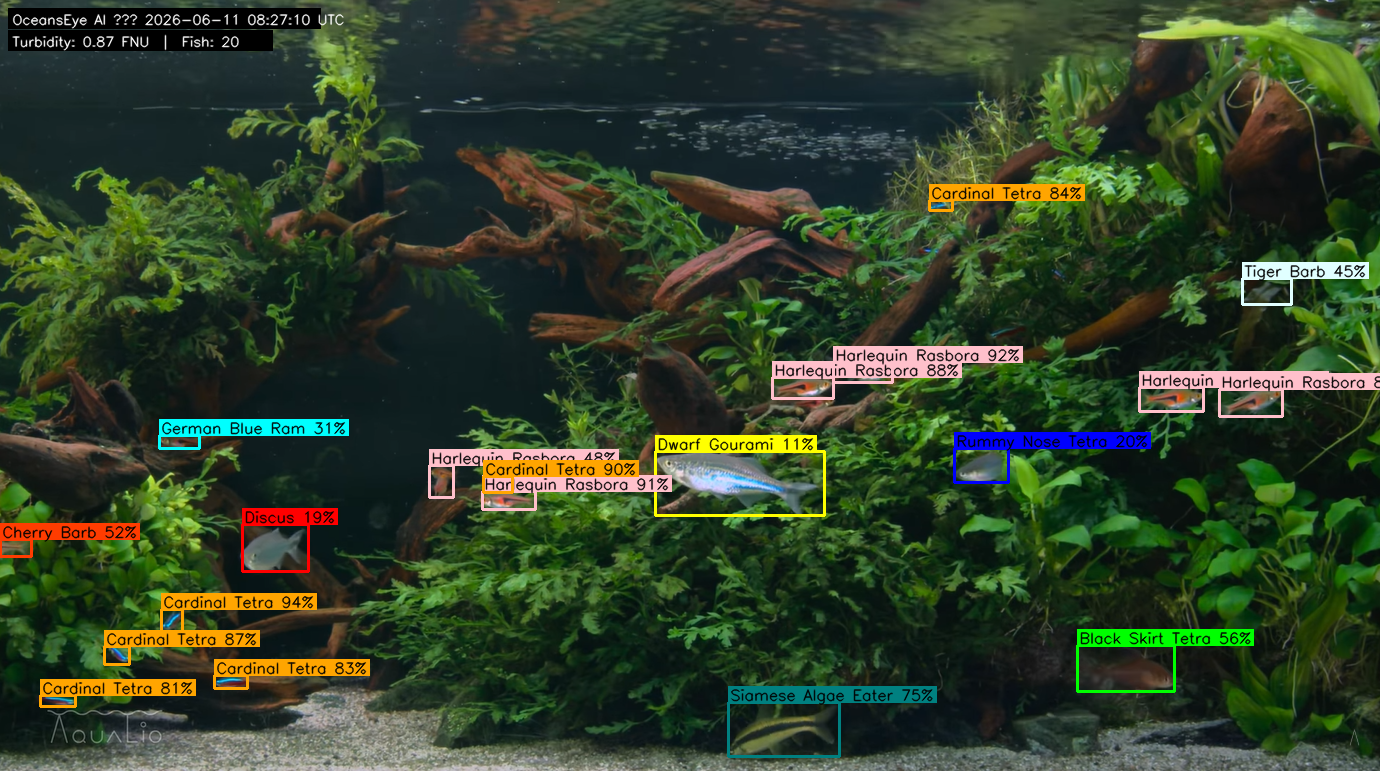
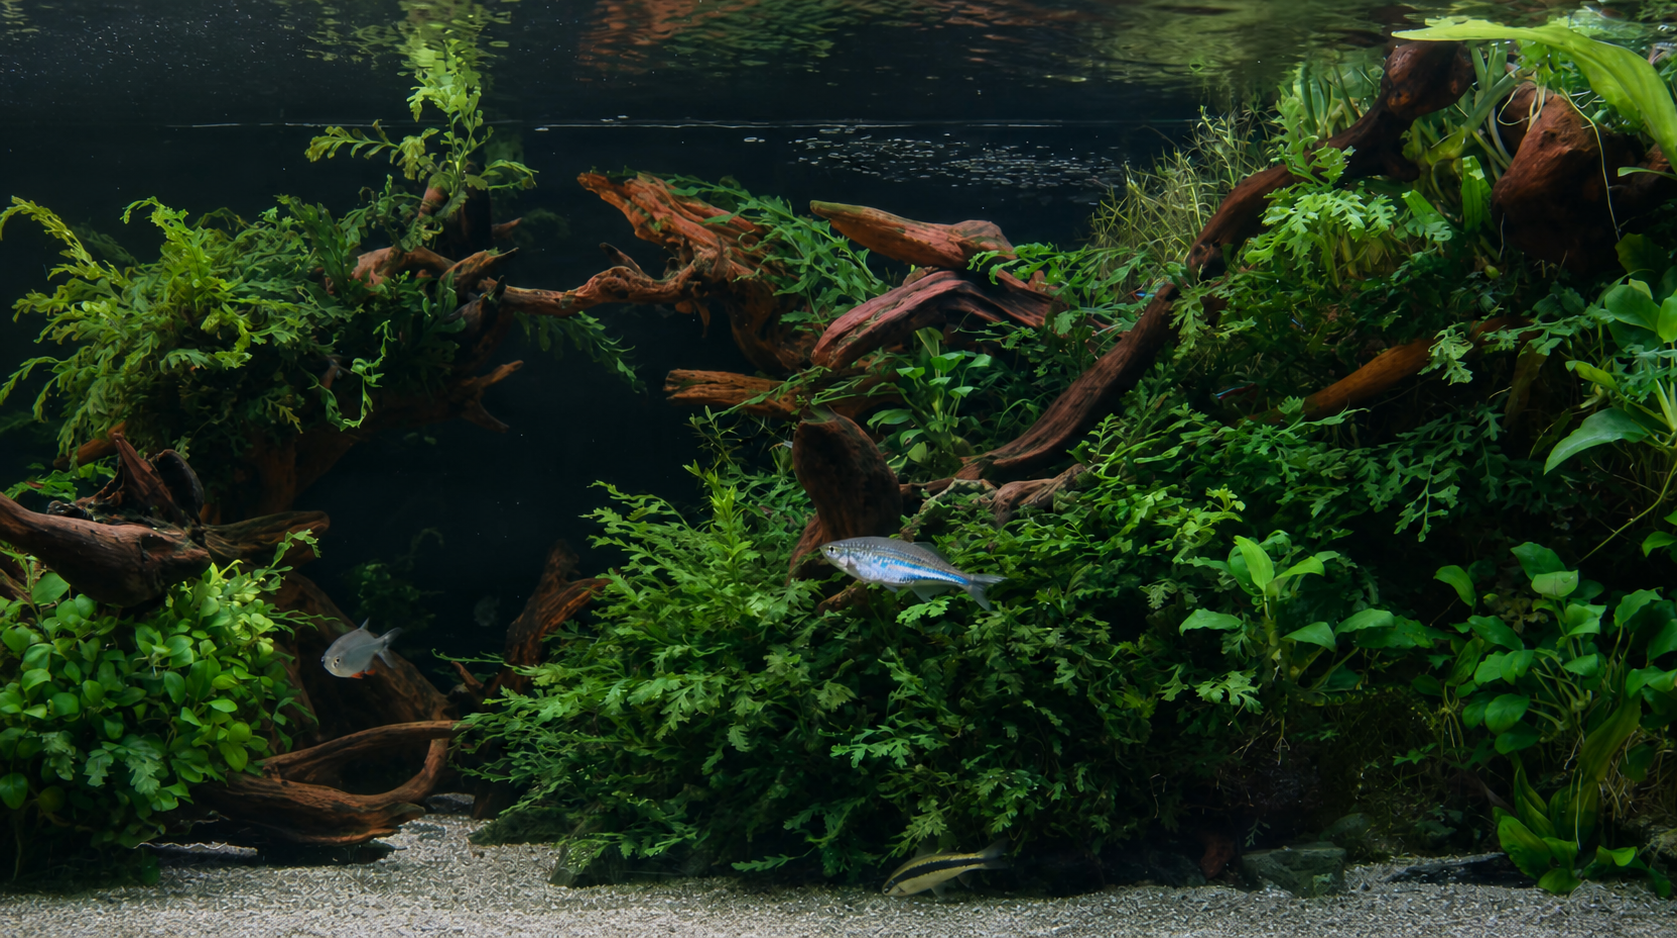
Improve analytics range editing and detection box styling

diff --git a/lib/ui/screens/analytics_screen.dart b/lib/ui/screens/analytics_screen.dart
@@ -115,19 +115,18 @@ Future<void> _showAnalyticsRangeEditor(
   BuildContext context,
   OceanEyesController controller,
 ) async {
-  final result = await _showAnalyticsOverlay<_RangeSelection>(
+  await _showAnalyticsOverlay<void>(
     context: context,
     child: _DateRangeEditorDialog(
       range: controller.analyticsRange,
       startTime: controller.analyticsStartTime,
       endTime: controller.analyticsEndTime,
+      onChanged: (selection) => controller.setAnalyticsRange(
+        selection.range,
+        start: selection.startTime,
+        end: selection.endTime,
+      ),
     ),
-  );
-  if (result == null) return;
-  controller.setAnalyticsRange(
-    result.range,
-    start: result.startTime,
-    end: result.endTime,
   );
 }
 
@@ -148,18 +147,15 @@ Future<T?> _showAnalyticsOverlay<T>({
       final resolvedTop = math
           .min(anchoredTop, math.max(16, size.height - 96))
           .toDouble();
-      return Material(
-        color: Colors.transparent,
-        child: Padding(
-          padding: EdgeInsets.fromLTRB(16, resolvedTop, 16, 16),
-          child: Align(
-            alignment: Alignment.topCenter,
-            child: SizedBox(
-              width: math.min(
-                OceanGeometry.referenceWidth - 32,
-                size.width - 32,
-              ),
-              child: Align(alignment: alignment, child: child),
+      return Padding(
+        padding: EdgeInsets.fromLTRB(16, resolvedTop, 16, 16),
+        child: Align(
+          alignment: Alignment.topCenter,
+          child: SizedBox(
+            width: math.min(OceanGeometry.referenceWidth - 32, size.width - 32),
+            child: Align(
+              alignment: alignment,
+              child: Material(color: Colors.transparent, child: child),
             ),
           ),
         ),
@@ -883,11 +879,13 @@ class _DateRangeEditorDialog extends StatefulWidget {
     required this.range,
     required this.startTime,
     required this.endTime,
+    required this.onChanged,
   });
 
   final DateTimeRange range;
   final TimeOfDay startTime;
   final TimeOfDay endTime;
+  final ValueChanged<_RangeSelection> onChanged;
 
   @override
   State<_DateRangeEditorDialog> createState() => _DateRangeEditorDialogState();
@@ -984,27 +982,6 @@ class _DateRangeEditorDialogState extends State<_DateRangeEditorDialog> {
                 ),
               ),
             ],
-            const SizedBox(height: OceanSpacing.sm),
-            Row(
-              children: [
-                Expanded(
-                  child: GlassButton(
-                    label: 'Cancel',
-                    style: GlassButtonStyle.outline,
-                    expanded: true,
-                    onPressed: () => Navigator.of(context).pop(),
-                  ),
-                ),
-                const SizedBox(width: OceanSpacing.xs),
-                Expanded(
-                  child: GlassButton(
-                    label: 'Apply',
-                    expanded: true,
-                    onPressed: _apply,
-                  ),
-                ),
-              ],
-            ),
           ],
         ),
       ),
@@ -1016,56 +993,42 @@ class _DateRangeEditorDialogState extends State<_DateRangeEditorDialog> {
       _RangeField.startDate => _OceanCalendar(
         key: const ValueKey('start-calendar'),
         selectedDate: _startDate,
-        onSelected: (date) {
-          setState(() {
-            _startDate = DateUtils.dateOnly(date);
-            _validationError = _rangeValidationMessage();
-          });
-        },
+        onSelected: (date) =>
+            _updateDraft(() => _startDate = DateUtils.dateOnly(date)),
       ),
       _RangeField.endDate => _OceanCalendar(
         key: const ValueKey('end-calendar'),
         selectedDate: _endDate,
-        onSelected: (date) {
-          setState(() {
-            _endDate = DateUtils.dateOnly(date);
-            _validationError = _rangeValidationMessage();
-          });
-        },
+        onSelected: (date) =>
+            _updateDraft(() => _endDate = DateUtils.dateOnly(date)),
       ),
       _RangeField.startTime => _OceanTimeWheel(
         key: const ValueKey('start-time-wheel'),
         initialTime: _startTime,
         semanticLabel: 'Start time',
-        onChanged: (time) => setState(() {
-          _startTime = time;
-          _validationError = _rangeValidationMessage();
-        }),
+        onChanged: (time) => _updateDraft(() => _startTime = time),
         onDone: () => setState(() => _activeField = null),
       ),
       _RangeField.endTime => _OceanTimeWheel(
         key: const ValueKey('end-time-wheel'),
         initialTime: _endTime,
         semanticLabel: 'End time',
-        onChanged: (time) => setState(() {
-          _endTime = time;
-          _validationError = _rangeValidationMessage();
-        }),
+        onChanged: (time) => _updateDraft(() => _endTime = time),
         onDone: () => setState(() => _activeField = null),
       ),
       null => const SizedBox.shrink(),
     };
   }
 
-  void _apply() {
-    final validationError = _rangeValidationMessage();
-    if (validationError != null) {
-      setState(() => _validationError = validationError);
-      return;
-    }
+  void _updateDraft(VoidCallback update) {
+    setState(() {
+      update();
+      _validationError = _rangeValidationMessage();
+    });
+    if (_validationError != null) return;
     final start = _combine(_startDate, _startTime);
     final end = _combine(_endDate, _endTime);
-    Navigator.of(context).pop(
+    widget.onChanged(
       _RangeSelection(
         range: DateTimeRange(start: start, end: end),
         startTime: _startTime,

diff --git a/test/widget_test.dart b/test/widget_test.dart
@@ -179,6 +179,8 @@ void main() {
     await tester.tap(find.byKey(const ValueKey('analytics-date-filter')));
     await tester.pumpAndSettle();
     expect(find.text('Date & time range'), findsOneWidget);
+    expect(find.text('Cancel'), findsNothing);
+    expect(find.text('Apply'), findsNothing);
     expect(controller.activeTab, PrimaryTab.analytics);
     expect(tester.takeException(), isNull);
   });
@@ -207,7 +209,10 @@ void main() {
       expect(find.text('End must be after start.'), findsOneWidget);
       expect(controller.analyticsRange.start, originalStart);
 
-      await tester.tap(find.text('Cancel'));
+      final editorRect = tester.getRect(
+        find.byKey(const ValueKey('analytics-range-editor')),
+      );
+      await tester.tapAt(Offset(editorRect.left - 4, editorRect.center.dy));
       await tester.pumpAndSettle();
       expect(
         find.byKey(const ValueKey('analytics-range-editor')),
@@ -217,6 +222,84 @@ void main() {
       expect(tester.takeException(), isNull);
     },
   );
+
+  testWidgets('range changes apply live and outside tap closes the editor', (
+    tester,
+  ) async {
+    final controller = await pumpReferenceApp(tester);
+    controller.selectTab(PrimaryTab.analytics);
+    await tester.pump(const Duration(milliseconds: 600));
+
+    await tester.tap(find.byKey(const ValueKey('analytics-date-filter')));
+    await tester.pumpAndSettle();
+    final originalRange = controller.analyticsRange;
+
+    await tester.tap(find.bySemanticsLabel('Ends date'));
+    await tester.pumpAndSettle();
+    expect(find.byKey(const ValueKey('end-calendar')), findsOneWidget);
+
+    await tester.tap(find.bySemanticsLabel('Saturday, 1 August 2026'));
+    await tester.pumpAndSettle();
+    expect(
+      find.byKey(const ValueKey('analytics-range-editor')),
+      findsOneWidget,
+    );
+    expect(controller.analyticsRange.start, originalRange.start);
+    expect(controller.analyticsRange.end, DateTime(2026, 8, 1, 23, 59));
+
+    await tester.tap(find.bySemanticsLabel('Starts time'));
+    await tester.pumpAndSettle();
+    expect(find.byKey(const ValueKey('ocean-time-wheel')), findsOneWidget);
+
+    await tester.tap(find.bySemanticsLabel('Minute 01'));
+    await tester.pumpAndSettle();
+    expect(controller.analyticsRange.start, DateTime(2026, 7, 31, 0, 1));
+    expect(controller.analyticsStartTime, const TimeOfDay(hour: 0, minute: 1));
+
+    final editorRect = tester.getRect(
+      find.byKey(const ValueKey('analytics-range-editor')),
+    );
+    final outsidePoint = Offset(
+      editorRect.left > 8 ? editorRect.left - 4 : editorRect.right + 4,
+      editorRect.center.dy,
+    );
+    await tester.tapAt(outsidePoint);
+    await tester.pumpAndSettle();
+
+    expect(find.byKey(const ValueKey('analytics-range-editor')), findsNothing);
+    expect(controller.analyticsRange.start, DateTime(2026, 7, 31, 0, 1));
+    expect(controller.analyticsRange.end, DateTime(2026, 8, 1, 23, 59));
+    expect(tester.takeException(), isNull);
+  });
+
+  testWidgets('range editor closes from Back in nested controls', (
+    tester,
+  ) async {
+    final controller = await pumpReferenceApp(tester);
+    controller.selectTab(PrimaryTab.analytics);
+    await tester.pump(const Duration(milliseconds: 600));
+
+    await tester.tap(find.byKey(const ValueKey('analytics-date-filter')));
+    await tester.pumpAndSettle();
+    await tester.tap(find.bySemanticsLabel('Starts date'));
+    await tester.pumpAndSettle();
+    expect(find.byKey(const ValueKey('start-calendar')), findsOneWidget);
+
+    await tester.binding.handlePopRoute();
+    await tester.pumpAndSettle();
+    expect(find.byKey(const ValueKey('analytics-range-editor')), findsNothing);
+
+    await tester.tap(find.byKey(const ValueKey('analytics-date-filter')));
+    await tester.pumpAndSettle();
+    await tester.tap(find.bySemanticsLabel('Starts time'));
+    await tester.pumpAndSettle();
+    expect(find.byKey(const ValueKey('ocean-time-wheel')), findsOneWidget);
+
+    await tester.binding.handlePopRoute();
+    await tester.pumpAndSettle();
+    expect(find.byKey(const ValueKey('analytics-range-editor')), findsNothing);
+    expect(tester.takeException(), isNull);
+  });
 
   testWidgets('fullscreen back closes drawer before the camera overlay', (
     tester,

diff --git a/lib/ui/widgets/aquarium_hero.dart b/lib/ui/widgets/aquarium_hero.dart
@@ -946,6 +946,7 @@ class _DetectionBoxes extends StatelessWidget {
           top: 0.33,
           width: 0.15,
           height: 0.18,
+          speciesId: 'cardinal_tetra',
           label: 'Cardinal Tetra 94%',
         ),
         _DetectionBox(
@@ -953,6 +954,7 @@ class _DetectionBoxes extends StatelessWidget {
           top: 0.44,
           width: 0.18,
           height: 0.20,
+          speciesId: 'guppy',
           label: 'Guppy 89%',
         ),
         _DetectionBox(
@@ -960,6 +962,7 @@ class _DetectionBoxes extends StatelessWidget {
           top: 0.25,
           width: 0.13,
           height: 0.17,
+          speciesId: 'corydoras',
           label: 'Corydoras 82%',
         ),
       ],
@@ -973,6 +976,7 @@ class _DetectionBox extends StatelessWidget {
     required this.top,
     required this.width,
     required this.height,
+    required this.speciesId,
     required this.label,
   });
 
@@ -980,6 +984,7 @@ class _DetectionBox extends StatelessWidget {
   final double top;
   final double width;
   final double height;
+  final String speciesId;
   final String label;
 
   @override
@@ -988,44 +993,47 @@ class _DetectionBox extends StatelessWidget {
       MediaQuery.sizeOf(context).width,
       OceanGeometry.referenceWidth,
     );
+    final boxWidth = referenceWidth * width;
+    final fontSize = (boxWidth * 0.12).clamp(10.0, 22.0).toDouble();
+    final boxColor = SpeciesDonut.colorForSpeciesId(speciesId);
+
     return Positioned(
       left: referenceWidth * left,
       top: OceanGeometry.heroHeight * top,
-      width: referenceWidth * width,
+      width: boxWidth,
       height: OceanGeometry.heroHeight * height,
       child: DecoratedBox(
         decoration: BoxDecoration(
-          border: Border.all(color: OceanColors.neonIce, width: 1.5),
-          boxShadow: [
-            BoxShadow(
-              color: OceanColors.neonIce.withValues(alpha: 0.22),
-              blurRadius: 5,
-            ),
-          ],
+          border: Border.all(color: boxColor, width: 1),
         ),
-        child: Align(
-          alignment: Alignment.topLeft,
-          child: Transform.translate(
-            offset: const Offset(-1.5, -16),
-            child: DecoratedBox(
-              decoration: const BoxDecoration(color: OceanColors.neonIce),
-              child: Padding(
-                padding: const EdgeInsets.symmetric(horizontal: 3, vertical: 1),
-                child: Text(
-                  label,
-                  maxLines: 1,
-                  overflow: TextOverflow.clip,
-                  style: const TextStyle(
-                    fontFamily: 'Inter',
-                    fontSize: 8,
-                    height: 1.2,
-                    color: OceanColors.prussianBlue,
-                    fontWeight: FontWeight.w600,
-                  ),
+        child: Stack(
+          clipBehavior: Clip.none,
+          children: [
+            Positioned(
+              left: 2,
+              top: -(fontSize + 4),
+              child: Text(
+                label,
+                maxLines: 1,
+                softWrap: false,
+                overflow: TextOverflow.visible,
+                style: TextStyle(
+                  fontFamily: 'Inter',
+                  fontSize: fontSize,
+                  height: 1.2,
+                  color: boxColor.withValues(alpha: 0.85),
+                  fontWeight: FontWeight.w400,
+                  shadows: const [
+                    Shadow(
+                      color: Color(0x99000000),
+                      offset: Offset(0, 1),
+                      blurRadius: 2,
+                    ),
+                  ],
                 ),
               ),
             ),
-          ),
+          ],
         ),
       ),
     );
